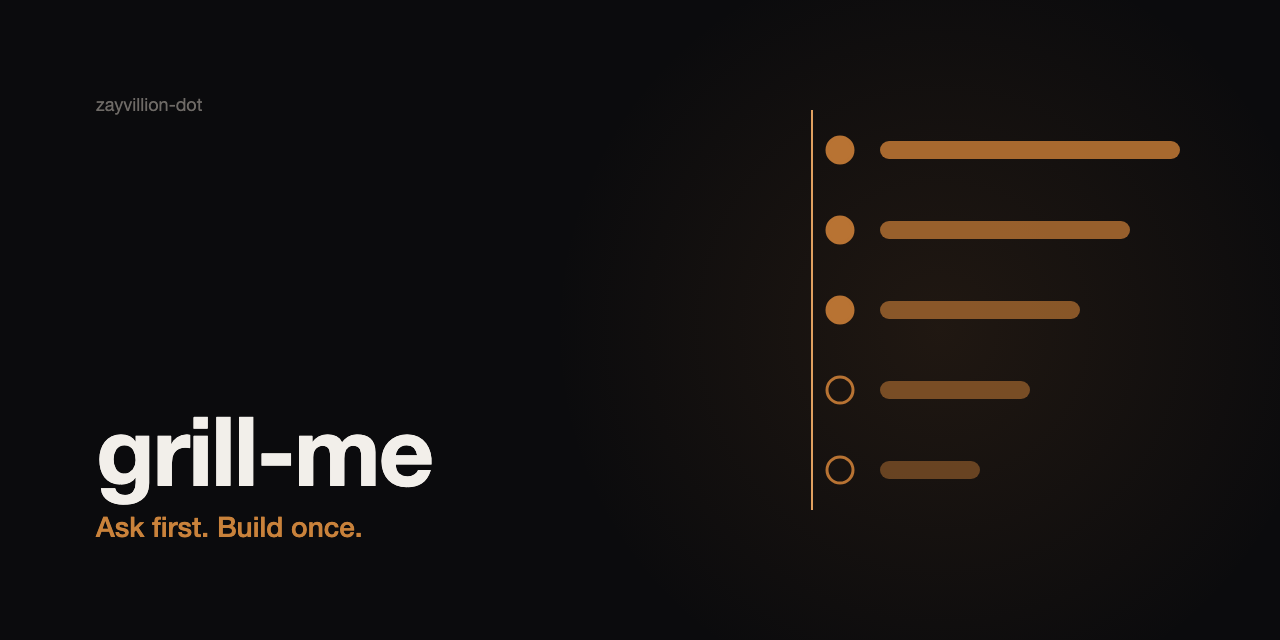
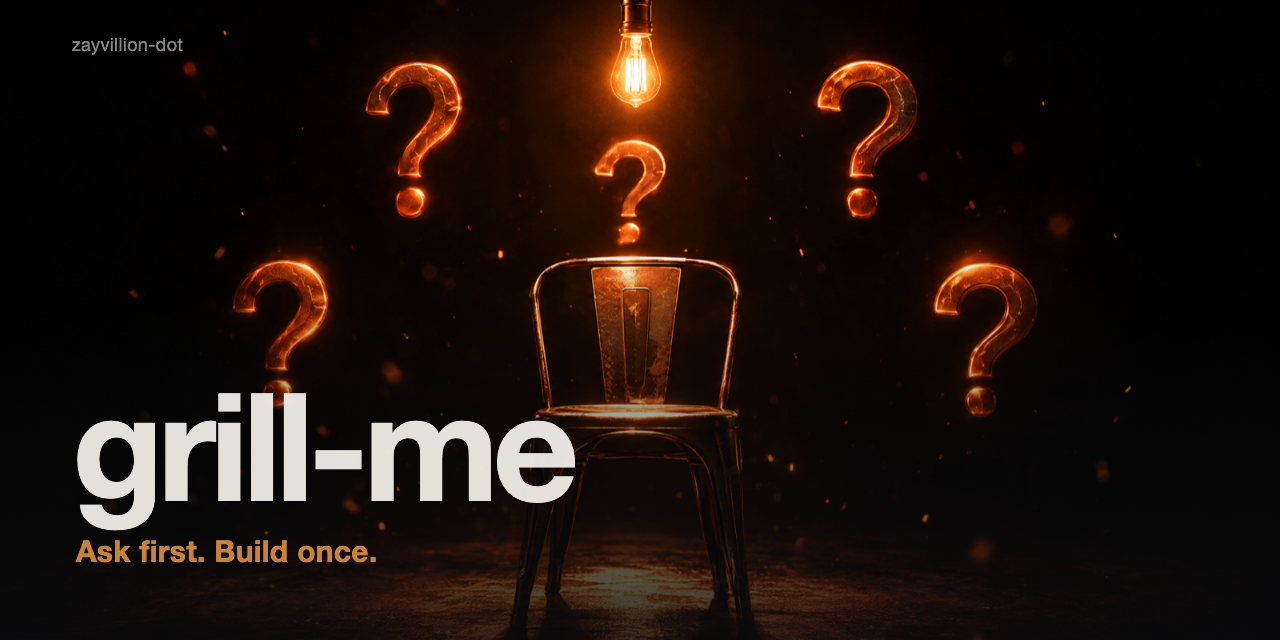
assets: album-cover social preview (series v2)

diff --git a/assets/social-preview.html b/assets/social-preview.html
@@ -1,15 +1,8 @@
 <!DOCTYPE html><html><head><meta charset="utf-8"><style>
-html,body{margin:0;padding:0;background:#0B0B0D}
-body{position:relative;font-family:-apple-system,"SF Pro Display","Helvetica Neue",Helvetica,sans-serif}
-.glow{position:absolute;left:520px;top:-90px;width:840px;height:840px;background:radial-gradient(circle,rgba(184,115,51,0.12) 0%,rgba(184,115,51,0) 65%)}
-.org{position:absolute;left:96px;top:96px;font-size:18px;line-height:18px;color:#6E6A66}
-.blk{position:absolute;left:96px;bottom:96px}
-.w{font-size:96px;line-height:100px;font-weight:700;letter-spacing:-0.02em;color:#F2EFEA}
-.t{font-size:28px;line-height:34px;font-weight:500;color:#C9823B;margin-top:10px}
-svg{position:absolute;left:0;top:0}
-</style></head><body style="margin:0;width:1280px;height:640px;overflow:hidden;background:#0B0B0D">
-<div class="glow"></div>
-<svg width="1280" height="640" viewBox="0 0 1280 640" fill="none"><circle cx="840" cy="150" r="13" stroke-width="3" fill="#B87333" stroke="#B87333"/><rect x="880" y="141" width="300" height="18" rx="9" fill="#B87333" opacity="0.9"/><circle cx="840" cy="230" r="13" stroke-width="3" fill="#B87333" stroke="#B87333"/><rect x="880" y="221" width="250" height="18" rx="9" fill="#B87333" opacity="0.8"/><circle cx="840" cy="310" r="13" stroke-width="3" fill="#B87333" stroke="#B87333"/><rect x="880" y="301" width="200" height="18" rx="9" fill="#B87333" opacity="0.7"/><circle cx="840" cy="390" r="13" stroke-width="3" stroke="#B87333"/><rect x="880" y="381" width="150" height="18" rx="9" fill="#B87333" opacity="0.6"/><circle cx="840" cy="470" r="13" stroke-width="3" stroke="#B87333"/><rect x="880" y="461" width="100" height="18" rx="9" fill="#B87333" opacity="0.5"/><line x1="812" y1="110" x2="812" y2="510" stroke="#E0A060" stroke-width="2"/></svg>
-<div class="org">zayvillion-dot</div>
-<div class="blk"><div class="w">grill-me</div><div class="t">Ask first. Build once.</div></div>
-</body></html>
+html,body{margin:0;width:1280px;height:640px;overflow:hidden}
+body{position:relative;background:#0B0B0D url('social-preview-bg.png') center/cover no-repeat;font-family:-apple-system,"SF Pro Display","Helvetica Neue",Helvetica,sans-serif}
+.g{position:absolute;inset:0;background:linear-gradient(to top,rgba(11,11,13,.82) 0%,rgba(11,11,13,.35) 38%,transparent 62%)}
+.o{position:absolute;left:72px;top:34px;font-size:18px;color:#8A847E;letter-spacing:.02em}
+.w{position:absolute;left:72px;bottom:150px;font-size:150px;font-weight:800;letter-spacing:-0.04em;line-height:1;color:#F2EFEA;opacity:.94;white-space:nowrap;transform:translateY(0.2em);}
+.t{position:absolute;left:76px;bottom:70px;font-size:30px;font-weight:600;letter-spacing:.01em;color:#C9823B}
+</style></head><body><div class="g"></div><div class="o">zayvillion-dot</div><div class="w">grill-me</div><div class="t">Ask first. Build once.</div></body></html>

diff --git a/assets/social-preview-typographic.html b/assets/social-preview-typographic.html
@@ -1,0 +1,15 @@
+<!DOCTYPE html><html><head><meta charset="utf-8"><style>
+html,body{margin:0;padding:0;background:#0B0B0D}
+body{position:relative;font-family:-apple-system,"SF Pro Display","Helvetica Neue",Helvetica,sans-serif}
+.glow{position:absolute;left:520px;top:-90px;width:840px;height:840px;background:radial-gradient(circle,rgba(184,115,51,0.12) 0%,rgba(184,115,51,0) 65%)}
+.org{position:absolute;left:96px;top:96px;font-size:18px;line-height:18px;color:#6E6A66}
+.blk{position:absolute;left:96px;bottom:96px}
+.w{font-size:96px;line-height:100px;font-weight:700;letter-spacing:-0.02em;color:#F2EFEA}
+.t{font-size:28px;line-height:34px;font-weight:500;color:#C9823B;margin-top:10px}
+svg{position:absolute;left:0;top:0}
+</style></head><body style="margin:0;width:1280px;height:640px;overflow:hidden;background:#0B0B0D">
+<div class="glow"></div>
+<svg width="1280" height="640" viewBox="0 0 1280 640" fill="none"><circle cx="840" cy="150" r="13" stroke-width="3" fill="#B87333" stroke="#B87333"/><rect x="880" y="141" width="300" height="18" rx="9" fill="#B87333" opacity="0.9"/><circle cx="840" cy="230" r="13" stroke-width="3" fill="#B87333" stroke="#B87333"/><rect x="880" y="221" width="250" height="18" rx="9" fill="#B87333" opacity="0.8"/><circle cx="840" cy="310" r="13" stroke-width="3" fill="#B87333" stroke="#B87333"/><rect x="880" y="301" width="200" height="18" rx="9" fill="#B87333" opacity="0.7"/><circle cx="840" cy="390" r="13" stroke-width="3" stroke="#B87333"/><rect x="880" y="381" width="150" height="18" rx="9" fill="#B87333" opacity="0.6"/><circle cx="840" cy="470" r="13" stroke-width="3" stroke="#B87333"/><rect x="880" y="461" width="100" height="18" rx="9" fill="#B87333" opacity="0.5"/><line x1="812" y1="110" x2="812" y2="510" stroke="#E0A060" stroke-width="2"/></svg>
+<div class="org">zayvillion-dot</div>
+<div class="blk"><div class="w">grill-me</div><div class="t">Ask first. Build once.</div></div>
+</body></html>
